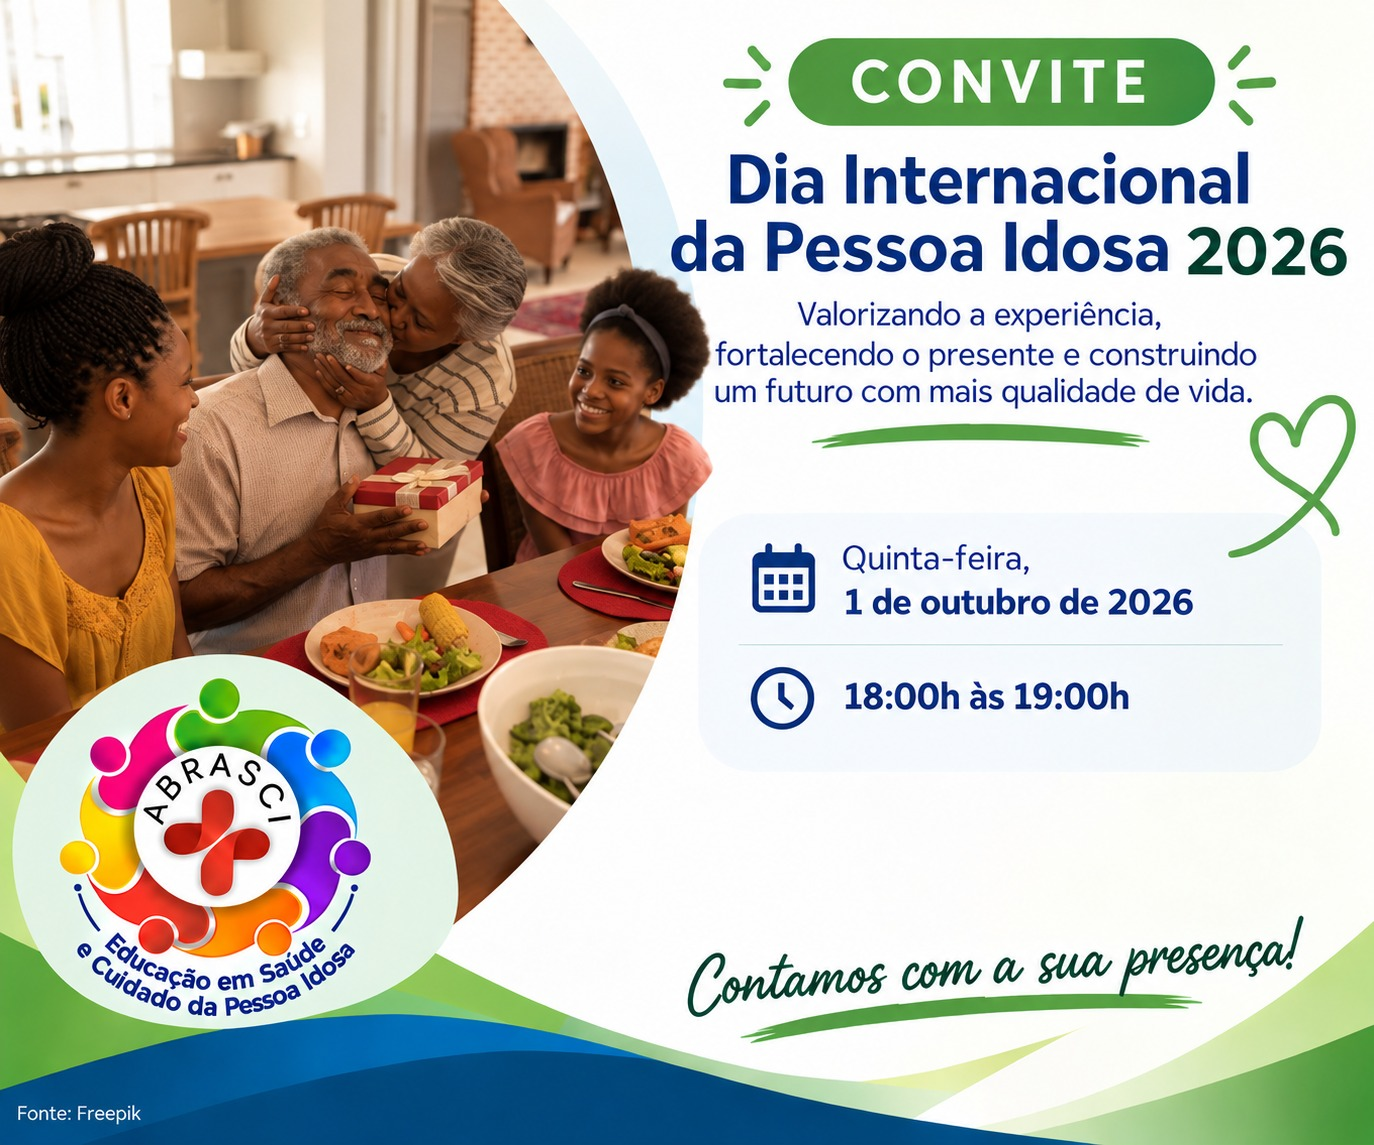
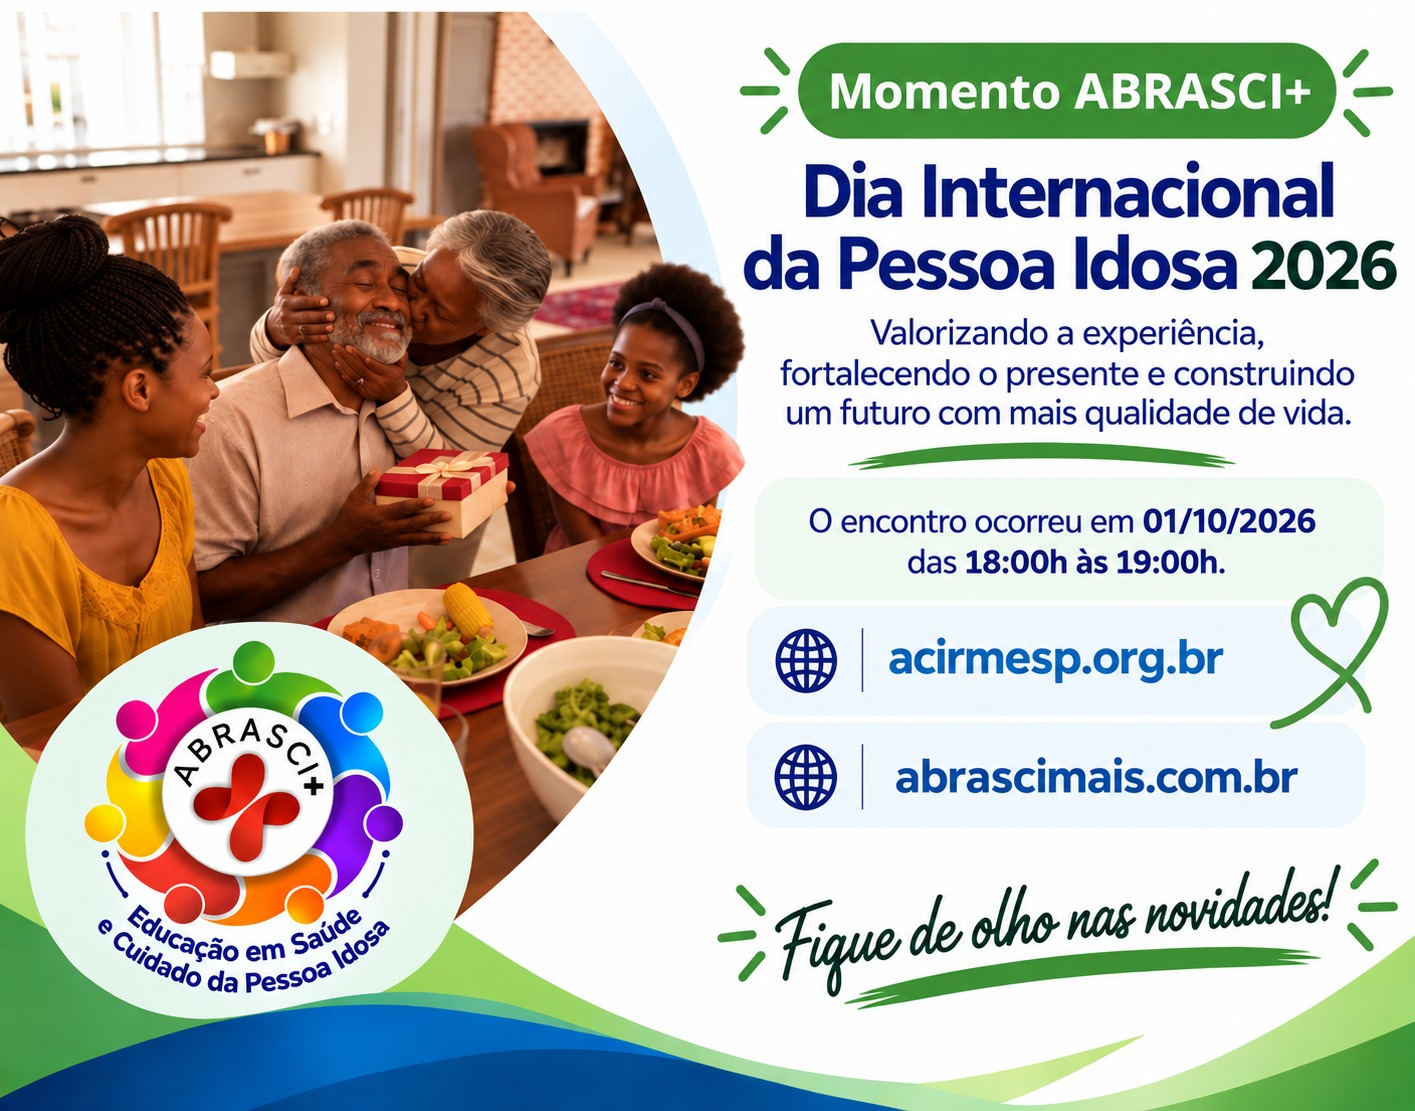
changes to Noticias and landing page

diff --git a/noticias/index.html b/noticias/index.html
@@ -46,16 +46,16 @@
         <main>
             <section class="news-hero">
                 <div class="news-hero-card">
-                    <a href="https://tichelmorres.github.io/ABRASCIMAIS/" target="_blank" class="news-hero-frame">
-                        <img src="../assets/noticias/laptop.jpg" alt="Laptop em fundo vermelho com lápis e caderno ao lado" class="news-hero-cover" />
+                    <a href="https://acirmesp.org.br" target="_blank" class="news-hero-frame">
+                        <img src="../assets/noticias/parceria.jpeg" alt="Aperto de mão entre duas pessoas, divulgação da parceria entre Acirmesp e ABRASCI+" class="news-hero-cover" />
                     </a>
                     <div class="news-hero-body">
-                        <h2 class="news-hero-title"><a href="https://tichelmorres.github.io/ABRASCIMAIS/" target="_blank">Lançamento da plataforma web da ABRASCI+</a></h2>
+                        <h2 class="news-hero-title"><a href="https://acirmesp.org.br" target="_blank">Acirmesp e ABRASCI+ firmam parceria inédita pela capacitação de cuidadores de idosos</a></h2>
                         <p class="news-hero-summary">
-                            O novo website da ABRASCI+ já está disponível publicamente para uso em computadores. Ele conta com informações úteis sobre o projeto, <a href="https://www.youtube.com/@ABRASCImais/shorts" target="_blank">vídeos de orientação gratuitos</a> e divulgação de novos eventos.
+                            No dia 01/10/2026, em comemoração ao Dia Internacional da Pessoa Idosa, a Acirmesp (Associação dos Cuidadores de Idosos da Região Metropolitana de São Paulo) e a ABRASCI+ firmaram uma parceria inédita para a melhoria da educação e capacitação dos cuidadores de idosos da região metropolitana de São Paulo.
                             <br/>
                             <br/>
-                            (Fonte da imagem: freepik.com)
+                            Conheça a Acirmesp em <a href="https://acirmesp.org.br" target="_blank">acirmesp.org.br</a>.
                         </p>
                     </div>
                 </div>
@@ -66,35 +66,46 @@
                 <div class="news-grid">
                     <div class="news-card">
                         <a href="../convite/pesquisa/index.html" class="news-card-frame">
-                            <img src="../assets/convite/pesquisa.jpeg" alt="Mulher cuidando de idoso feliz, panfleto de divulgação de pesquisa em formulário" class="news-card-cover" />
+                            <img src="../assets/convite/pesquisa.jpg" alt="Mulher cuidando de idoso feliz, panfleto de divulgação de pesquisa em formulário" class="news-card-cover" />
                         </a>
                         <div class="news-card-body">
-                            <h4 class="news-card-title"><a href="https://docs.google.com/forms/d/e/1FAIpQLScsGdK1QytQ2c_auV9EWJHXmcygL-ZDFWOplyPSr50aT3HwyA/viewform" target="_blank">Responda já à Pesquisa da ABRASCI+</a></h4>
+                            <h4 class="news-card-title"><a href="https://forms.gle/UCveoUyL3pwsi1jN8" target="_blank">Responda já à Pesquisa da ABRASCI+</a></h4>
                             <p class="news-card-summary">
-                                <br/>
                                 O formulário é rápido de responder.
                                 <br/>
                                 Queremos ouvir você!
                                 <br/>
                                 <br/>
-                                <a href="https://docs.google.com/forms/d/e/1FAIpQLScsGdK1QytQ2c_auV9EWJHXmcygL-ZDFWOplyPSr50aT3HwyA/viewform" target="_blank">Clique aqui</a>
-                                <br/>
-                                <br/>
-                                (Fonte da imagem: freepik.com)
+                                <a href="https://forms.gle/UCveoUyL3pwsi1jN8" target="_blank">Clique aqui</a>
                             </p>
                         </div>
                     </div>
                     <div class="news-card">
-                        <a href="../convite/dia_internacional/index.html" class="news-card-frame">
-                            <img src="../assets/convite/dia_internacional.jpeg" alt="Pessoa idosa com deficiência recebendo cuidados" class="news-card-cover" />
+                        <a href="https://forms.gle/UCveoUyL3pwsi1jN8" target="_blank" class="news-card-frame">
+                            <img src="../assets/convite/dia_internacional.jpeg" alt="Família reunida à mesa celebrando o Dia Internacional da Pessoa Idosa 2026" class="news-card-cover" />
                         </a>
                         <div class="news-card-body">
-                            <h4 class="news-card-title"><a href="https://meet.google.com/tkv-oiim-fbb/" target="_blank">Dia Internacional da Pessoa Idosa em 1° de Outubro</a></h4>
+                            <h4 class="news-card-title"><a href="https://forms.gle/UCveoUyL3pwsi1jN8" target="_blank">Momento ABRASCI+ celebrou o Dia Internacional da Pessoa Idosa 2026</a></h4>
                             <p class="news-card-summary">
-                                Venha participar do encontro e roda de conversa, troque experiências!
+                                O encontro aconteceu em 1° de outubro em comemoração ao Dia Internacional da Pessoa Idosa. Obrigado a todos que participaram!
                                 <br/>
                                 <br/>
-                                <a href="https://meet.google.com/tkv-oiim-fbb/" target="_blank">Clique aqui</a>
+                                Aproveite para responder à nossa pesquisa e nos ajudar a aprimorar a ABRASCI+:
+                                <a href="https://forms.gle/UCveoUyL3pwsi1jN8" target="_blank">Clique aqui</a>
+                            </p>
+                        </div>
+                    </div>
+                    <div class="news-card">
+                        <a href="https://tichelmorres.github.io/ABRASCIMAIS/" target="_blank" class="news-card-frame">
+                            <img src="../assets/noticias/laptop.jpg" alt="Laptop em fundo vermelho com lápis e caderno ao lado" class="news-card-cover" />
+                        </a>
+                        <div class="news-card-body">
+                            <h4 class="news-card-title"><a href="https://tichelmorres.github.io/ABRASCIMAIS/" target="_blank">Lançamento da plataforma web da ABRASCI+</a></h4>
+                            <p class="news-card-summary">
+                                O novo website da ABRASCI+ já está disponível publicamente para uso em computadores.
+                                <br/>
+                                <br/>
+                                Ele conta com informações úteis sobre o projeto, <a href="https://www.youtube.com/@ABRASCImais/shorts" target="_blank">vídeos de orientação gratuitos</a> e divulgação de novos eventos.
                                 <br/>
                                 <br/>
                                 (Fonte da imagem: freepik.com)
@@ -111,16 +122,16 @@
                 <h2>ABRASCI+</h2>
 
                 <div class="footer-forum">
-                    <p class="footer-forum-question">Momento ABRASCI+</p>
+                    <p class="footer-forum-question">Responda à pesquisa da ABRASCI+</p>
                     <p>
-                        Encontros e roda de conversa.
+                        Sua opinião é muito importante!
                         <br/>
-                        Acesse aqui e troque experiências!
+                        Responda ao nosso questionário e nos ajude a aprimorar a ABRASCI+.
                     </p>
                     <div class="footer-forum-actions">
-                        <a href="../convite/dia_internacional/index.html">
+                        <a href="https://forms.gle/UCveoUyL3pwsi1jN8" target="_blank">
                             <div class="footer-forum-button">
-                                Acessar
+                                Responder
                             </div>
                         </a>
                         <p class="footer-forum-note">OBS: Ainda não disponível</p>

diff --git a/index.html b/index.html
@@ -45,7 +45,17 @@
         <main>
             <section class="carousel">
                 <div class="carousel-track">
-                    <div class="slide active" aria-label="Slide 1 de 4">
+                    <div class="slide slide--pesquisa active" aria-label="Slide 1 de 5">
+                        <div class="pesquisa-slide-frame">
+                            <img src="./assets/convite/pesquisa.jpg" alt="Convite para participar da pesquisa da ABRASCI+" />
+                            <a href="https://forms.gle/UCveoUyL3pwsi1jN8" target="_blank" rel="noopener noreferrer" class="pesquisa-slide-button">
+                                <img src="./assets/convite/form.png" alt="" class="pesquisa-slide-icon" />
+                                RESPONDER
+                            </a>
+                        </div>
+                    </div>
+
+                    <div class="slide" aria-label="Slide 2 de 5">
                         <img src="./assets/carousel/idosos.jpg" alt="Casal de pessoas idosas sorridente tirando uma selfie ao ar livre" />
                         <div class="slide-overlay first-slide-overlay">
                             <h2 class="overlay-title">Sua saúde<br />importa!</h2>
@@ -53,7 +63,7 @@
                         </div>
                     </div>
 
-                    <div class="slide" aria-label="Slide 2 de 4">
+                    <div class="slide" aria-label="Slide 3 de 5">
                         <div class="second-slide-image">
                             <img src="./assets/carousel/familia.jpg" alt="Avô abraçando as netas sorridentes" />
                         </div>
@@ -63,7 +73,7 @@
                         </div>
                     </div>
 
-                    <div class="slide" aria-label="Slide 3 de 4">
+                    <div class="slide" aria-label="Slide 4 de 5">
                         <img src="./assets/carousel/cuidadora.jpg" alt="Cuidadora sorridente apoiando a mão no ombro de uma senhora idosa" />
                         <div class="slide-overlay third-slide-overlay">
                             <h2 class="overlay-title overlay-title--accent">Um cuidado<br />que faz<br />a diferença</h2>
@@ -71,7 +81,7 @@
                         </div>
                     </div>
 
-                    <div class="slide" aria-label="Slide 4 de 4">
+                    <div class="slide" aria-label="Slide 5 de 5">
                         <img src="./assets/carousel/pcd.jpg" alt="Idoso em cadeira de rodas usando o celular, sentado à mesa com notebook" />
                         <div class="slide-overlay fourth-slide-overlay">
                             <h2 class="overlay-title">Sua saúde<br />importa!</h2>
@@ -168,16 +178,16 @@
                 <h2>ABRASCI+</h2>
 
                 <div class="footer-forum">
-                    <p class="footer-forum-question">Momento ABRASCI+</p>
+                    <p class="footer-forum-question">Responda à pesquisa da ABRASCI+</p>
                     <p>
-                        Encontros e roda de conversa.
+                        Sua opinião é muito importante!
                         <br/>
-                        Acesse aqui e troque experiências!
+                        Responda ao nosso questionário e nos ajude a aprimorar a ABRASCI+.
                     </p>
                     <div class="footer-forum-actions">
-                        <a href="./convite/dia_internacional/index.html">
+                        <a href="https://forms.gle/UCveoUyL3pwsi1jN8" target="_blank">
                             <div class="footer-forum-button">
-                                Acessar
+                                Responder
                             </div>
                         </a>
                         <p class="footer-forum-note">OBS: Ainda não disponível</p>

diff --git a/convite/pesquisa/index.html b/convite/pesquisa/index.html
@@ -47,11 +47,11 @@
         <main>
             <section class="invite-showcase">
                 <div class="invite-frame">
-                    <a href="https://docs.google.com/forms/d/e/1FAIpQLScsGdK1QytQ2c_auV9EWJHXmcygL-ZDFWOplyPSr50aT3HwyA/viewform" target="_blank" class="invite-button">
+                    <a href="https://forms.gle/UCveoUyL3pwsi1jN8" target="_blank" class="invite-button">
                         <img src="../../assets/convite/form.png" alt="" class="invite-icon" />
                         RESPONDER
                     </a>
-                    <img src="../../assets/convite/pesquisa.jpeg" alt="Convite para participar da pesquisa da ABRASCI+" class="invite-image" />
+                    <img src="../../assets/convite/pesquisa.jpg" alt="Convite para participar da pesquisa da ABRASCI+" class="invite-image" />
                 </div>
             </section>
         </main>
@@ -62,16 +62,16 @@
                 <h2>ABRASCI+</h2>
 
                 <div class="footer-forum">
-                    <p class="footer-forum-question">Momento ABRASCI+</p>
+                    <p class="footer-forum-question">Responda à pesquisa da ABRASCI+</p>
                     <p>
-                        Encontros e roda de conversa.
+                        Sua opinião é muito importante!
                         <br/>
-                        Acesse aqui e troque experiências!
+                        Responda ao nosso questionário e nos ajude a aprimorar a ABRASCI+.
                     </p>
                     <div class="footer-forum-actions">
-                        <a href="../../convite/dia_internacional/index.html">
+                        <a href="https://forms.gle/UCveoUyL3pwsi1jN8" target="_blank">
                             <div class="footer-forum-button">
-                                Acessar
+                                Responder
                             </div>
                         </a>
                         <p class="footer-forum-note">OBS: Ainda não disponível</p>

diff --git a/style.css b/style.css
@@ -325,6 +325,65 @@ h2 {
     opacity: 1;
 }
 
+/* slide da pesquisa: imagem sempre inteira (contain) + botão posicionado
+   em coordenadas relativas à imagem (mesmos valores de convite/pesquisa) */
+.slide--pesquisa {
+    container-type: size;
+    display: flex;
+    align-items: center;
+    justify-content: center;
+    background-color: var(--background);
+}
+
+.pesquisa-slide-frame {
+    container-type: inline-size;
+    position: relative;
+    /* quadrado (proporção da pesquisa.jpg) com o maior lado que cabe no slide */
+    width: min(100cqw, 100cqh);
+    aspect-ratio: 1 / 1;
+    line-height: 0;
+}
+
+.pesquisa-slide-frame > img {
+    display: block;
+    width: 100%;
+    height: 100%;
+    object-fit: contain;
+    object-position: center;
+}
+
+.pesquisa-slide-button {
+    position: absolute;
+    top: 44%;
+    left: 62%;
+    z-index: 10;
+    display: inline-flex;
+    align-items: center;
+    gap: 0.8cqw;
+    padding: 3cqw 3.5cqw;
+    border-radius: 999px;
+    background-color: var(--accent);
+    color: var(--background);
+    font-family: "DM Sans", sans-serif;
+    font-weight: 600;
+    font-size: 2.8cqw;
+    line-height: normal;
+    white-space: nowrap;
+    transition: transform 0.2s ease, background-color 0.2s ease;
+}
+
+.pesquisa-slide-button:hover {
+    background-color: var(--accent-extra);
+    transform: scale(1.02);
+}
+
+.pesquisa-slide-button .pesquisa-slide-icon {
+    width: 2.6cqw;
+    height: 2.6cqw;
+    object-fit: contain;
+    filter: brightness(0) invert(1);
+}
+
 /* CTA sobre os slides */
 .slide-overlay {
     position: absolute;

diff --git a/cadastro/index.html b/cadastro/index.html
@@ -100,16 +100,16 @@
                 <h2>ABRASCI+</h2>
 
                 <div class="footer-forum">
-                    <p class="footer-forum-question">Momento ABRASCI+</p>
+                    <p class="footer-forum-question">Responda à pesquisa da ABRASCI+</p>
                     <p>
-                        Encontros e roda de conversa.
+                        Sua opinião é muito importante!
                         <br/>
-                        Acesse aqui e troque experiências!
+                        Responda ao nosso questionário e nos ajude a aprimorar a ABRASCI+.
                     </p>
                     <div class="footer-forum-actions">
-                        <a href="../convite/dia_internacional/index.html">
+                        <a href="https://forms.gle/UCveoUyL3pwsi1jN8" target="_blank">
                             <div class="footer-forum-button">
-                                Acessar
+                                Responder
                             </div>
                         </a>
                         <p class="footer-forum-note">OBS: Ainda não disponível</p>

diff --git a/para_voce/index.html b/para_voce/index.html
@@ -130,16 +130,16 @@
                 <h2>ABRASCI+</h2>
 
                 <div class="footer-forum">
-                    <p class="footer-forum-question">Momento ABRASCI+</p>
+                    <p class="footer-forum-question">Responda à pesquisa da ABRASCI+</p>
                     <p>
-                        Encontros e roda de conversa.
+                        Sua opinião é muito importante!
                         <br/>
-                        Acesse aqui e troque experiências!
+                        Responda ao nosso questionário e nos ajude a aprimorar a ABRASCI+.
                     </p>
                     <div class="footer-forum-actions">
-                        <a href="../convite/dia_internacional/index.html">
+                        <a href="https://forms.gle/UCveoUyL3pwsi1jN8" target="_blank">
                             <div class="footer-forum-button">
-                                Acessar
+                                Responder
                             </div>
                         </a>
                         <p class="footer-forum-note">OBS: Ainda não disponível</p>

diff --git a/login/index.html b/login/index.html
@@ -86,16 +86,16 @@
                 <h2>ABRASCI+</h2>
 
                 <div class="footer-forum">
-                    <p class="footer-forum-question">Momento ABRASCI+</p>
+                    <p class="footer-forum-question">Responda à pesquisa da ABRASCI+</p>
                     <p>
-                        Encontros e roda de conversa.
+                        Sua opinião é muito importante!
                         <br/>
-                        Acesse aqui e troque experiências!
+                        Responda ao nosso questionário e nos ajude a aprimorar a ABRASCI+.
                     </p>
                     <div class="footer-forum-actions">
-                        <a href="../convite/dia_internacional/index.html">
+                        <a href="https://forms.gle/UCveoUyL3pwsi1jN8" target="_blank">
                             <div class="footer-forum-button">
-                                Acessar
+                                Responder
                             </div>
                         </a>
                         <p class="footer-forum-note">OBS: Ainda não disponível</p>

diff --git a/noticias/style.css b/noticias/style.css
@@ -17,14 +17,18 @@
 .news-hero-frame {
     display: block;
     width: 100%;
+    /* parceria.jpeg (1415x1112); max-height evita que fique maior que a tela */
+    aspect-ratio: 1415 / 1112;
+    max-height: 720px;
+    background-color: var(--background);
     overflow: hidden;
 }
 
 .news-hero-cover {
     display: block;
     width: 100%;
-    height: clamp(280px, 40vw, 560px);
-    object-fit: cover;
+    height: 100%;
+    object-fit: contain;
     transition: transform 0.35s ease;
 }
 
@@ -77,8 +81,8 @@
 
 .news-grid {
     display: grid;
-    /* grid-template-columns: repeat(3, 1fr); <- previous */
-    grid-template-columns: repeat(2, 1fr);
+    /* grid-template-columns: repeat(2, 1fr); <- previous */
+    grid-template-columns: repeat(3, 1fr);
     gap: 2.5rem;
 }
 
@@ -106,7 +110,7 @@
 .news-card-frame {
     display: block;
     width: 100%;
-    aspect-ratio: 4 / 3;
+    background-color: var(--background);
     overflow: hidden;
 }
 
@@ -114,7 +118,7 @@
     display: block;
     width: 100%;
     height: 100%;
-    object-fit: cover;
+    object-fit: contain;
     transition: transform 0.35s ease;
 }
 
